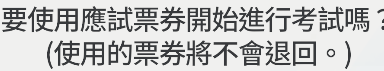
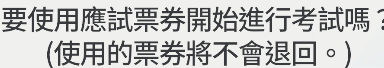
fix : Global_zh-tw incorrect drill_start-drill-notice template

diff --git a/src/images/Global_zh-tw/x_y_range/joint_firing_drill.py b/src/images/Global_zh-tw/x_y_range/joint_firing_drill.py
@@ -19,7 +19,7 @@ x_y_range = {
 
     "Season-Record": (30, 581, 208, 606),
     "drill-information": (577, 138, 703, 178),
-    "start-drill-notice": (441, 302, 825, 410),
+    "start-drill-notice": (441, 322, 825, 390),
     "drill-finish": (577, 109, 705, 147),
 
     "sweep-menu": (600, 179, 670, 215),
